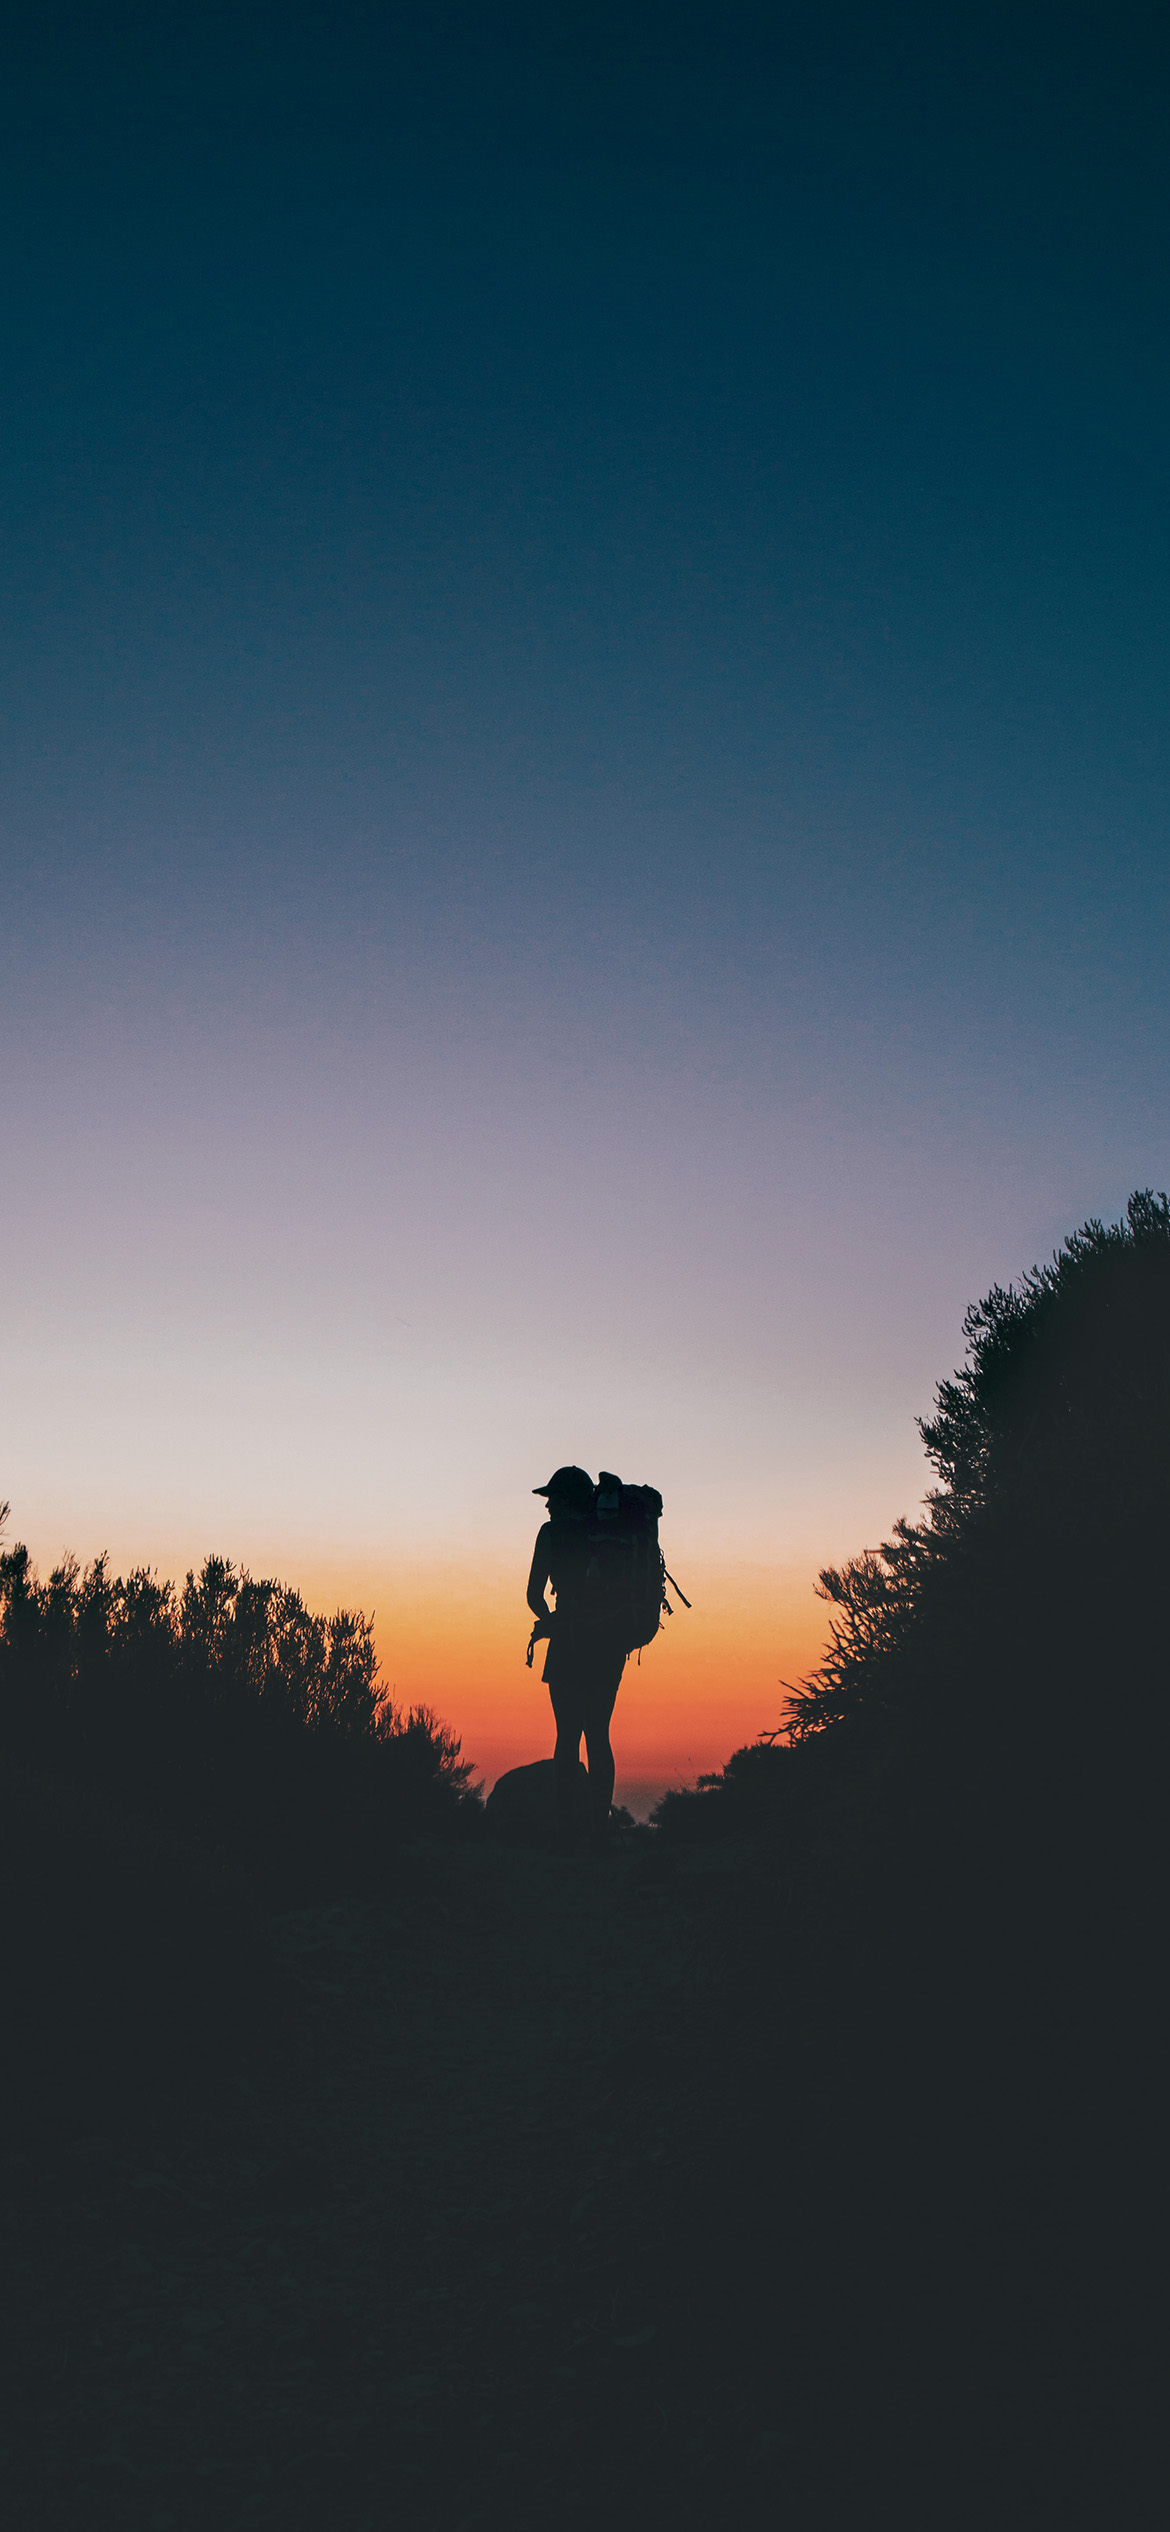
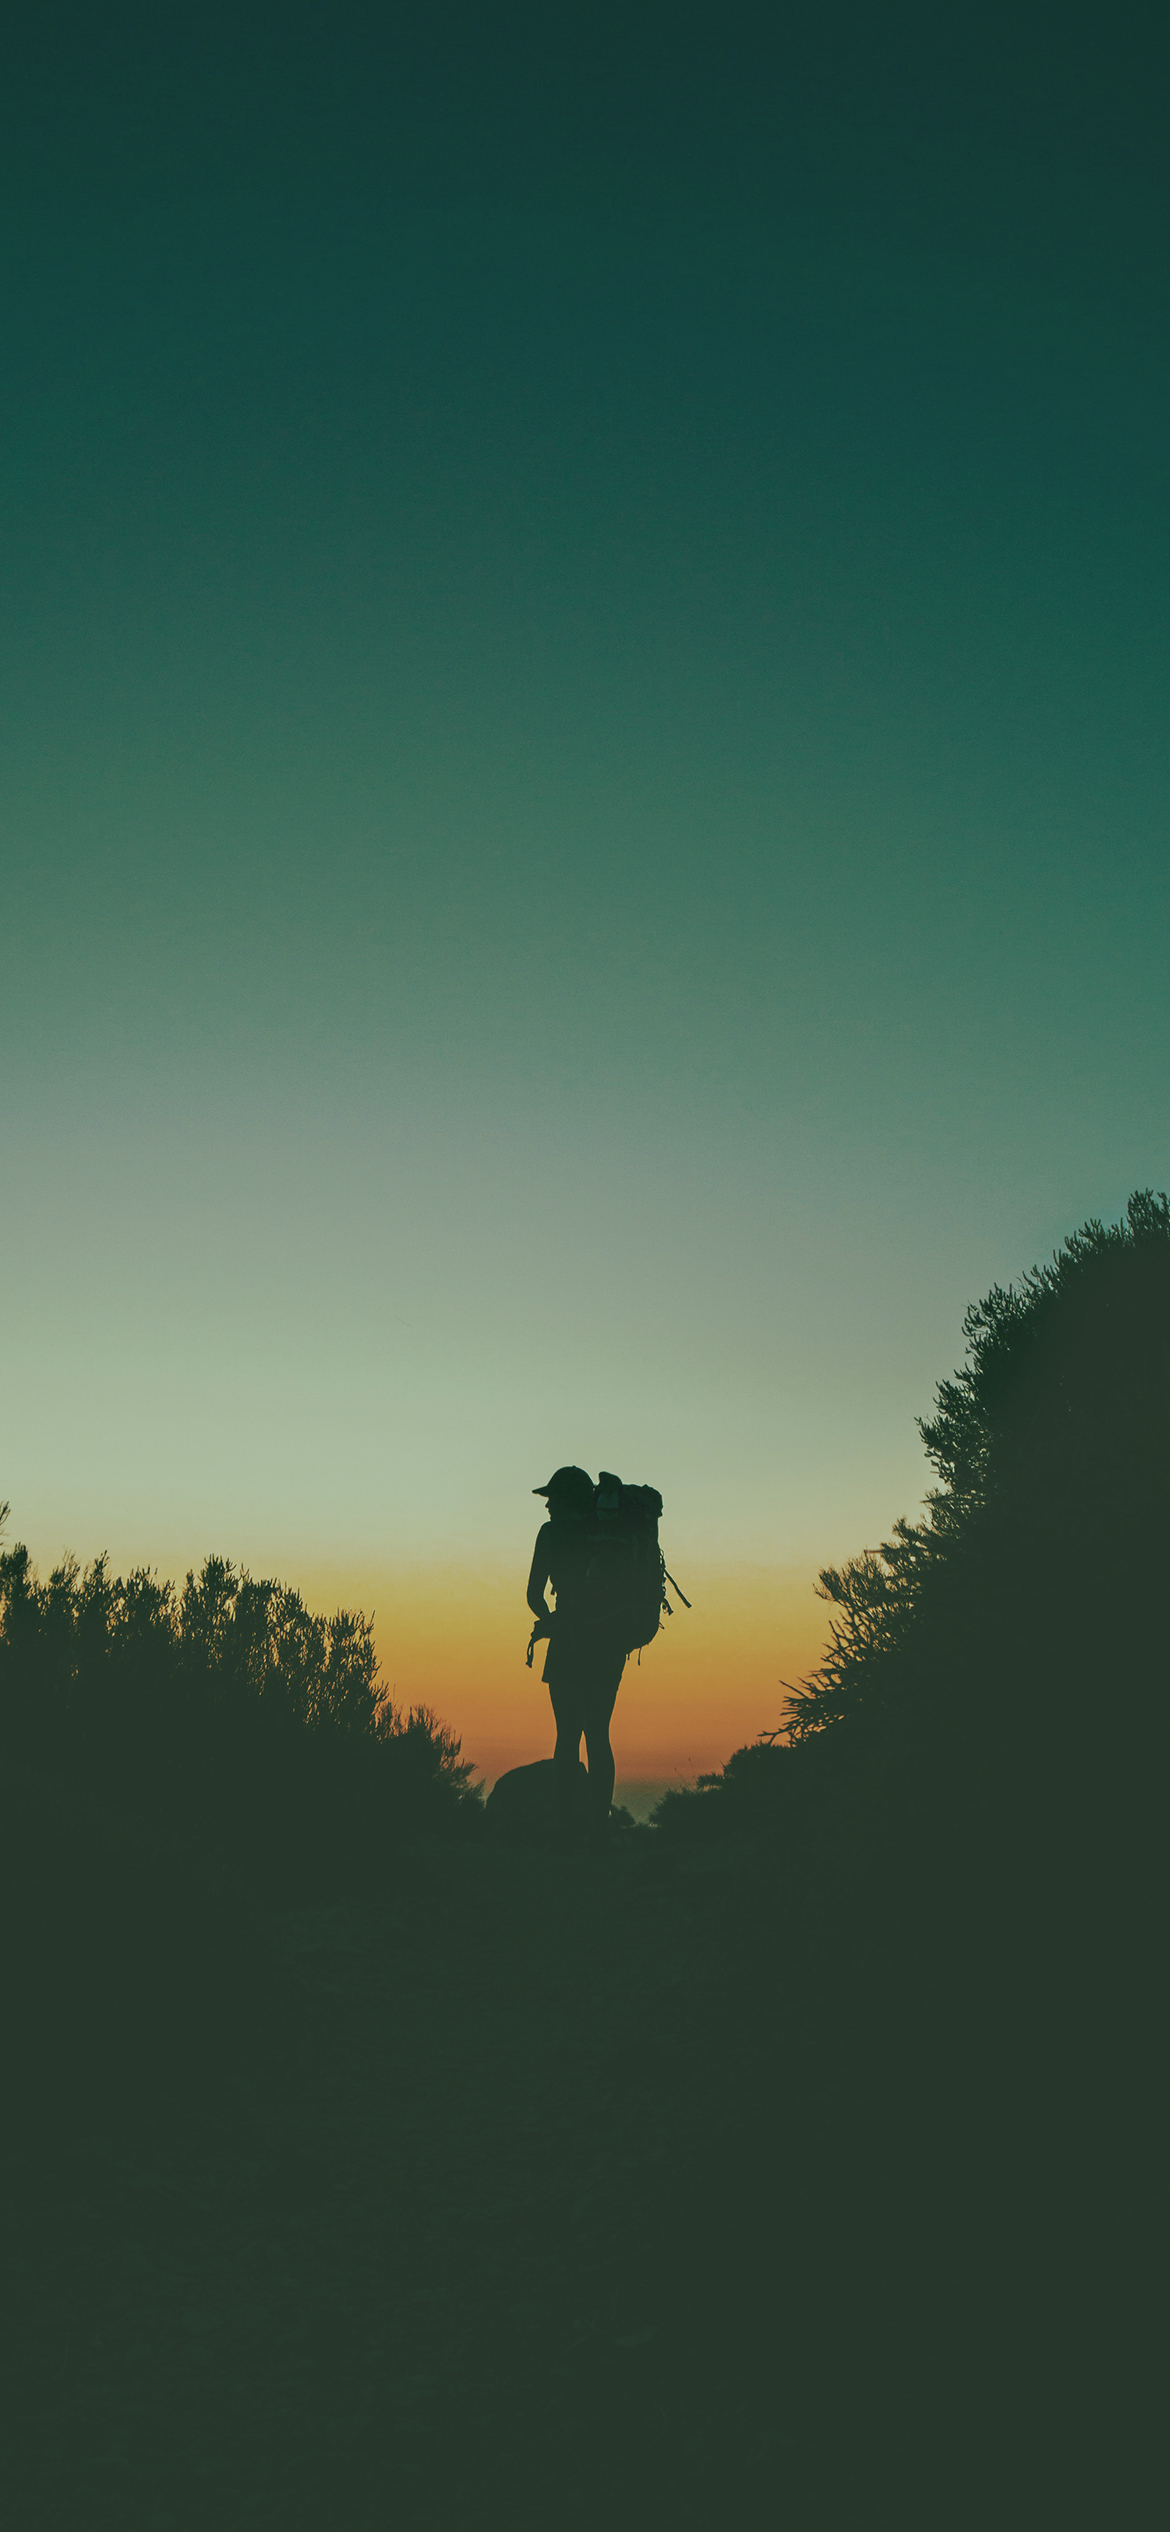
Created more styling for the Home page

Changed region(s): [[0.0, 0.312, 1.0, 0.7176]]

diff --git a/src/components/TimeSelector.jsx b/src/components/TimeSelector.jsx
@@ -1,9 +1,20 @@
-import React, {useState, useEffect} from 'react';
-import {View, Button, Platform, Text,TextInput, StyleSheet, Keyboard} from 'react-native';
+import React, { useState, useEffect } from 'react';
+import {
+  View,
+  Button,
+  Platform,
+  Text,
+  TextInput,
+  StyleSheet,
+  Keyboard,
+  TouchableWithoutFeedback,
+} from 'react-native';
 import DateTimePicker from '@react-native-community/datetimepicker';
-import {durationInSeconds} from '../utils/time-utils'
-import CounterApp from './CounterApp'
+import { durationInSeconds } from '../utils/time-utils';
+import CounterApp from './CounterApp';
 import SendText from './SendText';
+import AppTextInput from '../components/AppTextInput';
+import AppButton from '../components/AppButton';
 
 export const TimeSelector = () => {
   const [date, setDate] = useState(new Date());
@@ -15,19 +26,17 @@ export const TimeSelector = () => {
   const [confirmContactNumber, setConfirmContactNumber] = useState('');
   const [confirmedContactNumber, setConfirmedContactNumber] = useState('');
 
-  useEffect(()=>{
-    setTimerEnd(true)
-  },[duration])
-
+  useEffect(() => {
+    setTimerEnd(true);
+  }, [duration]);
 
   const onChange = (event, selectedDate) => {
-    
     const currentDate = selectedDate || date;
     setShow(Platform.OS === 'ios');
     setDate(currentDate);
-    const output = durationInSeconds(event.nativeEvent.timestamp)
-    setDuration(output)
-    console.log(output, '<< output')
+    const output = durationInSeconds(event.nativeEvent.timestamp);
+    setDuration(output);
+    console.log(output, '<< output');
   };
 
   const showMode = (currentMode) => {
@@ -40,49 +49,64 @@ export const TimeSelector = () => {
   };
 
   const showTimepicker = () => {
-   showMode('time');
+    showMode('time');
   };
 
   return (
-    <View style={styles.container}>
+    <TouchableWithoutFeedback onPress={Keyboard.dismiss} accessible={false}>
+      <View style={styles.mainContainer}>
+        <Text style={styles.headerText}>Start your Rambl!</Text>
+        <View style={styles.container}>
+          {/* <AppButton title="Select return date" onPress={showDatepicker} />
+          <AppButton title="Select return time" onPress={showTimepicker} /> */}
+          <Button onPress={showDatepicker} title="Select return date" />
+          <Button onPress={showTimepicker} title="Select return time" />
+        </View>
+        <AppTextInput
+          leftIcon="phone"
+          placeholder="Enter trusted contact number here"
+          textContentType="telephoneNumber"
+          style={styles.input}
+          value={contactNumber}
+          onChangeText={setContactNumber}
+          keyboardType="numeric"
+        />
+        <AppTextInput
+          leftIcon="phone"
+          style={styles.input}
+          value={confirmContactNumber}
+          placeholder="Re-enter number"
+          onChangeText={setConfirmContactNumber}
+          keyboardType="numeric"
+        />
 
-        <Button onPress={showDatepicker} title="Show date picker!" />
-        <Button onPress={showTimepicker} title="Show time picker!" />
-   
+        <View style={styles.timerButtons}>
+          {contactNumber === confirmContactNumber &&
+          confirmContactNumber !== '' ? (
+            <AppButton
+              onPress={() => {
+                Keyboard.dismiss;
+                setTimerEnd(false);
+              }}
+              title="Start timer!"
+            />
+          ) : null}
 
-        <TextInput
-        style={styles.input}
-        value={contactNumber}
-        placeholder="enter number"
-        onChangeText={setContactNumber}
-        keyboardType="numeric"
-      />
-      <TextInput
-        style={styles.input}
-        value={confirmContactNumber}
-        placeholder="Re-enter number"
-        onChangeText={setConfirmContactNumber}
-        keyboardType="numeric"
-      />
-        
-
-      {(contactNumber===confirmContactNumber && confirmContactNumber!=='')?<Button onPress={() => {
-        Keyboard.dismiss
-          setTimerEnd(false); 
-          console.log("TimeSelector >>>>>> button pressed");
-          console.log("TimeSelector >>>>>>> new duration!:",duration)
-        }} title="Start timer!" />:null}
-
-        {/* <Button onPress={() => {
+          {/* <Button onPress={() => {
           setTimerEnd(false); 
           console.log("button pressed");
           console.log("new duration!:",duration)
         }} title="Start timer!" /> */}
 
-        <Button onPress={()=> {setDuration(0)}} title="Reset"/>
-
-      <Text>duration in state: {duration}</Text>
-      {/* {show && (
+          <AppButton
+            onPress={() => {
+              setDuration(0);
+            }}
+            title="Reset Timer"
+          />
+        </View>
+        <Text>duration in state: {duration}</Text>
+        {/* {show && (
         <DateTimePicker
           testID="dateTimePicker"
           value={date}
@@ -92,21 +116,43 @@ export const TimeSelector = () => {
           onChange={onChange}
         />
       )} */}
-      	<CounterApp 
-        timerEnd={timerEnd}
-        setTimerEnd={setTimerEnd}
-        duration={duration}/>
-        <SendText timerEnd={timerEnd}/>
-    </View>
+        <CounterApp
+          timerEnd={timerEnd}
+          setTimerEnd={setTimerEnd}
+          duration={duration}
+        />
+        <SendText timerEnd={timerEnd} />
+      </View>
+    </TouchableWithoutFeedback>
   );
 };
 const styles = StyleSheet.create({
-  container:{
-    paddingTop: 50,
+  container: {
+    flexDirection: 'row',
+    flexWrap: 'wrap',
+    alignItems: 'center',
+    backgroundColor: 'white',
+    borderRadius: 5,
   },
   input: {
-    height: 40,
-    margin: 12,
-    borderWidth: 1,
+    width: 150,
+  },
+  headerText: {
+    marginTop: 50,
+    marginBottom: 30,
+    color: 'white',
+    fontSize: 30,
+    fontWeight: 'bold',
+    textAlign: 'center',
+    width: 300,
+    height: 50,
+    shadowColor: '#000',
+    shadowOffset: { width: 0, height: 1 },
+    shadowOpacity: 1,
+    shadowRadius: 2,
+    elevation: 15,
+  },
+  timerButtons: {
+    alignItems: 'center',
   },
 });

diff --git a/src/screens/Home.js b/src/screens/Home.js
@@ -1,9 +1,17 @@
 import React from 'react';
-import { View, Text, StyleSheet, Button, Image } from 'react-native';
+import {
+  View,
+  Text,
+  StyleSheet,
+  Button,
+  Image,
+  ImageBackground,
+} from 'react-native';
 import { Auth } from 'aws-amplify';
 import AppButton from '../components/AppButton';
 import Coordinates from '../components/Coordinates';
-import Friends from '../components/Friends'
+import Friends from '../components/Friends';
+import { TimeSelector } from '../components/TimeSelector';
 
 export default function Home({ updateAuthState }) {
   async function signOut() {
@@ -15,26 +23,32 @@ export default function Home({ updateAuthState }) {
     }
   }
   return (
-    <View style={styles.container}>
-      <View style={styles.logocontainer}></View>
-      <Image
-        style={styles.logo}
-        source={require('../images/ramblr-logo.png')}
-      />
-      <AppButton onPress={signOut} title="Sign Out " />
-      <Coordinates />
-      <Friends props/>
-    </View>
+    <ImageBackground
+      source={require('../images/ramblr-background-3.jpg')}
+      style={styles.image}
+    >
+      <View style={styles.container}>
+        <View style={styles.logocontainer}></View>
+        <Image
+          style={styles.logo}
+          source={require('../images/ramblr-logo.png')}
+        />
+        <TimeSelector />
+        <AppButton onPress={signOut} title="Sign Out " />
+        {/* <Coordinates /> */}
+        {/* <Friends props /> */}
+      </View>
+    </ImageBackground>
   );
 }
 const styles = StyleSheet.create({
   container: {
     flex: 1,
-    backgroundColor: '#63a55d',
+
     alignItems: 'center',
   },
   logo: {
-    marginTop: -50,
+    marginTop: -53,
     marginBottom: 20,
     width: 300,
     height: 40,
@@ -43,12 +57,18 @@ const styles = StyleSheet.create({
   logocontainer: {
     height: 100,
     width: 380,
-    backgroundColor: '#63a55d',
-    resizeMode: 'cover',
+    backgroundColor: '#527968',
     shadowColor: '#000',
     shadowOffset: { width: 0, height: 1 },
-    shadowOpacity: 0.8,
+    shadowOpacity: 0.9,
     shadowRadius: 3,
-    elevation: 5,
+    elevation: 15,
+    opacity: 0.8,
+  },
+  image: {
+    flex: 1,
+    resizeMode: 'cover',
+    width: '100%',
+    height: '120%',
   },
 });

diff --git a/src/components/SendText.jsx b/src/components/SendText.jsx
@@ -3,14 +3,13 @@ import { View, Text, TextInput, Button, StyleSheet } from 'react-native';
 import axios from 'axios';
 import API_KEY from '../../API_KEY.env';
 
-
-const SendText = ({timerEnd}) => {
+const SendText = ({ timerEnd }) => {
   const [contactNumber, setContactNumber] = useState('');
-  const [message, setMessage] = useState('sent with a time end');
-  console.log(timerEnd, "<<< timerEnd in the send text func");
+  const [message, setMessage] = useState('');
+  console.log(timerEnd, '<<< timerEnd in the send text func');
 
-  useEffect(()=>{
-    console.log(timerEnd, "<<< timerEnd in the send text func in useEffect");
+  useEffect(() => {
+    console.log(timerEnd, '<<< timerEnd in the send text func in useEffect');
     axios({
       method: 'post',
       url: url,
@@ -40,14 +39,14 @@ const SendText = ({timerEnd}) => {
     //     console.log(error);
     //   }
     // );
-  },[timerEnd])
+  }, [timerEnd]);
 
   const url = 'https://api.thesmsworks.co.uk/v1/message/send';
 
   axios.interceptors.request.use(
     (config) => {
       config.headers.authorization = API_KEY;
-console.log("config changed");
+      console.log('config changed');
       return config;
     },
     (err) => {
@@ -76,14 +75,6 @@ console.log("config changed");
 
   return (
     <>
-      {/* <TextInput
-        style={styles.input}
-        value={contactNumber}
-        placeholder="enter number"
-        onChangeText={setContactNumber}
-        keyboardType="numeric"
-      /> */}
-
       <TextInput
         style={styles.input}
         value={message}

diff --git a/App.js b/App.js
@@ -12,7 +12,6 @@ import SignIn from './src/screens/SignIn';
 import SignUp from './src/screens/SignUp';
 import ConfirmSignUp from './src/screens/ConfirmSignUp';
 import Home from './src/screens/Home';
-import { TimeSelector } from './src/components/TimeSelector';
 
 Amplify.configure(awsmobile);
 const AuthenticationStack = createStackNavigator();
@@ -75,7 +74,6 @@ function App() {
   }
 
   return (
-    
     <NavigationContainer>
       {isUserLoggedIn === 'initializing' && <Initializing />}
       {isUserLoggedIn === 'loggedIn' && (
@@ -84,10 +82,7 @@ function App() {
       {isUserLoggedIn === 'loggedOut' && (
         <AuthenticationNavigator updateAuthState={updateAuthState} />
       )}
-       <TimeSelector  /> 
-      {/*NEW LINE HERE ^^^*/}
     </NavigationContainer>
-    
   );
 
   // async function signOut() {
